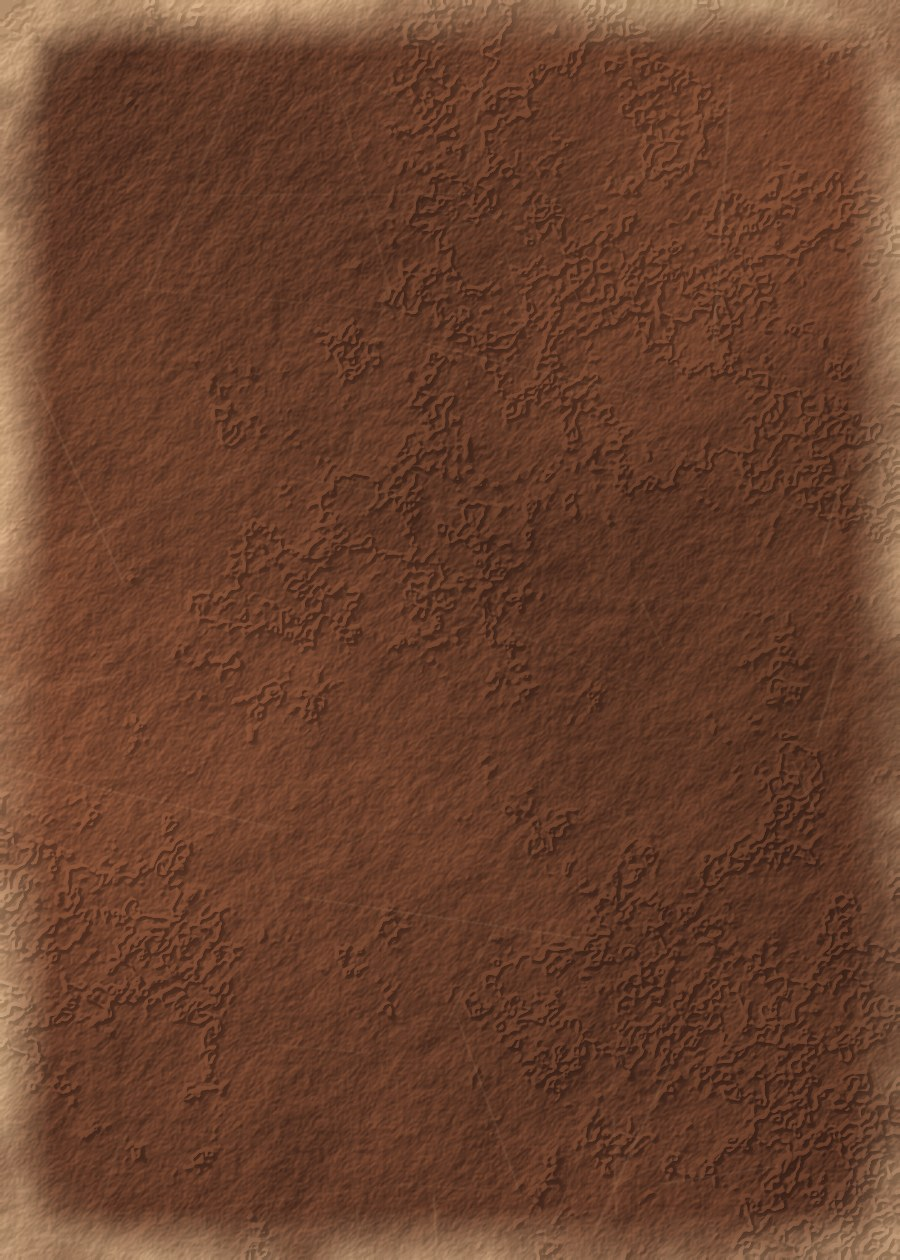
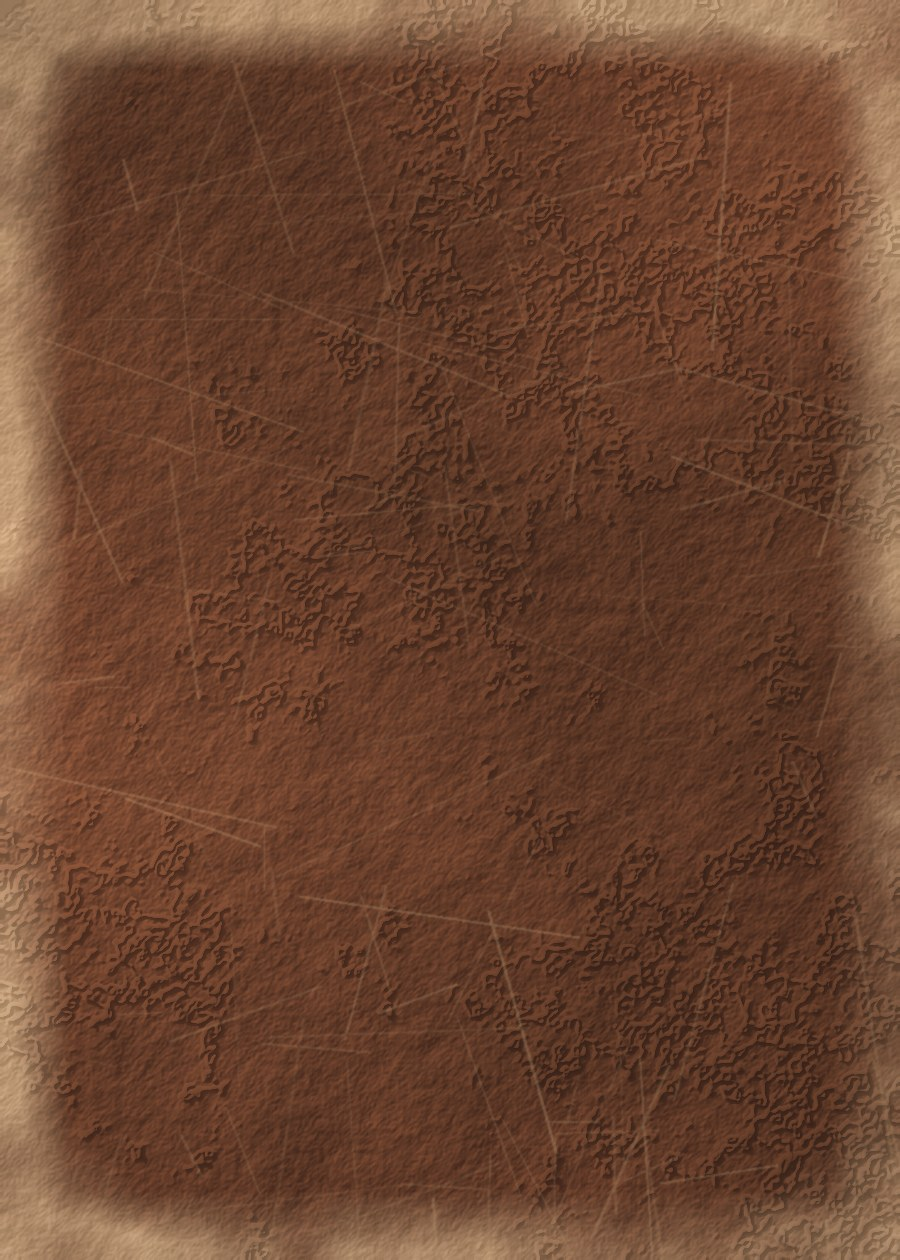
Mist is the choice; batter the cover; make the open book read as a book on phones
- about.html locked to data-dust-kind=mist
- the leather takes a beating: twice the scratches and deeper, wider and
  blotchier rub-through at edges and corners, and grime settled into the low
  points of the grain, which is what separates dirty from merely dark. A new
  cover-dust.png layer sits over everything on the cover including the gilt,
  and the corners show knocked-through board. The tooling and lettering are
  masked harder so the gold is patchier
- on a phone StPageFlip shows one page, which read as a floating leaf. A
  static .libtome-verso panel now sits immediately left of the recto with the
  boards stretched across both, so the verso and left board carry on off the
  screen, and the stage slides right 9% when open so the spine is inside the
  viewport. Portrait only; the landscape spread is untouched

diff --git a/public/assets/css/tome-lib.css b/public/assets/css/tome-lib.css
@@ -35,6 +35,23 @@
   background:#5a3325 url("../tome/leather.jpg") center/cover;
   box-shadow:inset 0 0 46px rgba(30,14,6,.30), inset 0 0 14px rgba(30,14,6,.24);
 }
+/* Settled dust, over everything on the cover including the gilt — dust does
+   not respect the tooling. */
+.libtome .page[data-density="hard"]::before{
+  content:""; position:absolute; inset:0; z-index:5; pointer-events:none;
+  background:url("../tome/cover-dust.png") center/cover;
+  opacity:.5;
+}
+.libtome .page[data-density="hard"]::after{
+  /* knocked corners: the board shows through where it has been dropped */
+  content:""; position:absolute; inset:0; z-index:4; pointer-events:none;
+  background:
+    radial-gradient(circle at 0 0,      rgba(196,158,116,.55) 0, transparent 9%),
+    radial-gradient(circle at 100% 0,   rgba(196,158,116,.42) 0, transparent 7%),
+    radial-gradient(circle at 0 100%,   rgba(196,158,116,.50) 0, transparent 8%),
+    radial-gradient(circle at 100% 100%,rgba(196,158,116,.60) 0, transparent 10%);
+  width:auto;
+}
 .libtome .page .sheet{
   position:absolute; inset:0; display:flex; flex-direction:column;
   padding:clamp(18px,3.2vw,42px) clamp(18px,3.4vw,46px);
@@ -71,4 +88,28 @@
     0 4px 0 -1px #5c3526, 0 7px 0 -2px #34190f, 0 9px 1px -3px rgba(0,0,0,.55),
     0 20px 28px -18px rgba(30,18,10,.8), 0 46px 62px -30px rgba(40,26,14,.5);
   transition:left .5s ease, width .5s ease;
+}
+
+
+/* ---------- portrait: make it read as an open book ----------
+   StPageFlip shows one page in portrait, which on its own looks like a
+   floating leaf. The verso and the boards are drawn continuing off the left
+   of the screen so there is obviously a book there, and the whole thing
+   shifts right once it is open so the spine sits inside the viewport. */
+.libtome-verso{
+  position:absolute; z-index:1; pointer-events:none; display:none;
+  background:#efe4cd url("../tome/page.jpg") center/cover;
+  box-shadow:inset -18px 0 26px -14px rgba(76,52,26,.5);
+  border-radius:5px 1px 1px 5px;
+}
+.libtome-verso::after{
+  content:""; position:absolute; top:0; bottom:0; right:0; width:16%;
+  background:linear-gradient(to left, rgba(76,52,26,.4), transparent);
+}
+.libtome-stage{ transition:transform .55s cubic-bezier(.4,.05,.2,1) }
+
+@media (max-width:820px){
+  .libtome{ max-width:min(73vw, calc((100svh - 300px) * .70)) }
+  .libtome.is-open .libtome-verso{ display:block }
+  .libtome.is-open .libtome-stage{ transform:translateX(9%) }
 }

diff --git a/public/assets/js/tome-lib.js b/public/assets/js/tome-lib.js
@@ -29,6 +29,7 @@
   root.className = 'libtome';
 
   var stage  = document.createElement('div'); stage.className = 'libtome-stage';
+  var verso  = document.createElement('div'); verso.className = 'libtome-verso';
   var boards = document.createElement('div'); boards.className = 'libtome-boards';
   var bookEl = document.createElement('div'); bookEl.className = 'libtome-book';
   var dustEl = document.createElement('div'); dustEl.className = 'libtome-dust'; dustEl.id = 'libtome-dust';
@@ -46,6 +47,7 @@
   });
 
   stage.appendChild(boards);
+  stage.appendChild(verso);
   stage.appendChild(bookEl);
   stage.appendChild(dustEl);
   root.appendChild(stage);
@@ -120,15 +122,31 @@
     var idx = flip.getCurrentPageIndex();
     var n = flip.getPageCount();
     var landscape = flip.getOrientation() === 'landscape';
-    var half = landscape && (idx === 0 || idx >= n - 1);
+    var open = idx > 0 && idx < n - 1;
+    var half = landscape && !open;
 
     var w = half ? b.width / 2 : b.width;
     var x = b.left - s.left + (half && idx === 0 ? b.width / 2 : 0);
+    var top = b.top - s.top - b.height * 0.013;
+    var hgt = b.height * 1.026;
 
-    boards.style.left   = (x - w * 0.016) + 'px';
-    boards.style.top    = (b.top - s.top - b.height * 0.013) + 'px';
-    boards.style.width  = (w * 1.032) + 'px';
-    boards.style.height = (b.height * 1.026) + 'px';
+    root.classList.toggle('is-open', open);
+
+    if (!landscape && open) {
+      // portrait, open: the verso and the left board carry on off the screen
+      verso.style.left   = (x - b.width) + 'px';
+      verso.style.top    = (b.top - s.top) + 'px';
+      verso.style.width  = b.width + 'px';
+      verso.style.height = b.height + 'px';
+
+      boards.style.left  = (x - b.width - w * 0.016) + 'px';
+      boards.style.width = (b.width + w * 1.032) + 'px';
+    } else {
+      boards.style.left  = (x - w * 0.016) + 'px';
+      boards.style.width = (w * 1.032) + 'px';
+    }
+    boards.style.top    = top + 'px';
+    boards.style.height = hgt + 'px';
   }
 
   function status() {

diff --git a/public/assets/css/tome.css b/public/assets/css/tome.css
@@ -295,10 +295,10 @@ html:has(.tome-page){ overflow-x:clip }
    patches, the way gilt does. Two rules, an outer and an inner. */
 .cover-inner::before{
   content:""; position:absolute; inset:0; pointer-events:none;
-  border:1.5px solid rgba(236,200,132,.85); border-radius:2px;
-  box-shadow:inset 0 0 0 5px transparent, inset 0 0 0 6px rgba(236,200,132,.44);
+  border:1.5px solid rgba(226,188,120,.68); border-radius:2px;
+  box-shadow:inset 0 0 0 5px transparent, inset 0 0 0 6px rgba(226,188,120,.28);
   -webkit-mask-image:url("../tome/wear.png"); mask-image:url("../tome/wear.png");
-  -webkit-mask-size:180% 260%; mask-size:180% 260%;
+  -webkit-mask-size:260% 380%; mask-size:260% 380%;
   -webkit-mask-position:34% 46%; mask-position:34% 46%;
 }
 /* the debossed line under the gilt, so the tooling has depth */
@@ -309,7 +309,7 @@ html:has(.tome-page){ overflow-x:clip }
 .cover-mark{
   width:min(78%,320px);
   -webkit-mask-image:url("../tome/wear.png"); mask-image:url("../tome/wear.png");
-  -webkit-mask-size:210% 620%; mask-size:210% 620%;
+  -webkit-mask-size:300% 780%; mask-size:300% 780%;
   -webkit-mask-position:28% 38%; mask-position:28% 38%;
   filter:drop-shadow(0 1px 0 rgba(12,6,3,.7));
 }

diff --git a/public/about.html b/public/about.html
@@ -47,7 +47,7 @@
     <h1>About</h1>
   </div>
 
-  <div class="libtome" data-tome-lib data-dust-kind="both">
+  <div class="libtome" data-tome-lib data-dust-kind="mist">
     <div class="tome-fallback">
 
       <article class="page-src" data-type="cover">

diff --git a/tools/make-tome-textures.py b/tools/make-tome-textures.py
@@ -41,7 +41,7 @@ height = (height - height.min()) / (height.max() - height.min())
 
 # crazing: where the crack field is near a threshold, cut a fine valley
 craze = np.exp(-((crack - .5) ** 2) / (2 * 0.012 ** 2))
-height -= craze * .16
+height -= craze * .22
 
 smooth = np.array(Image.fromarray(np.clip(height * 255, 0, 255).astype(np.uint8))
                   .filter(ImageFilter.GaussianBlur(.7)), np.float32) / 255
@@ -55,12 +55,12 @@ col = deep[None, None, :] + (mid - deep)[None, None, :] * (shade[:, :, None] * .
 
 # --- wear: edges and corners rub first -----------------------------------
 edge_d = np.minimum(np.minimum(nx, 1 - nx) * (W / H), np.minimum(ny, 1 - ny))
-edge_w = np.clip(1 - edge_d / .042, 0, 1) ** 1.05
-corner = np.clip(1 - (np.minimum(nx, 1 - nx) * (W / H) + np.minimum(ny, 1 - ny)) / .13, 0, 1) ** 1.15
+edge_w = np.clip(1 - edge_d / .055, 0, 1) ** 1.0
+corner = np.clip(1 - (np.minimum(nx, 1 - nx) * (W / H) + np.minimum(ny, 1 - ny)) / .17, 0, 1) ** 1.05
 # blotchy, so some of the edge survives and some is worn through
 patch = fbm(W, H, 6, seed=15, persistence=.7)
 patch = np.clip((patch - .40) * 3.4, 0, 1)
-rub = np.clip(edge_w * 1.0 + corner * .95, 0, 1) * (.25 + .95 * patch)
+rub = np.clip(edge_w * 1.15 + corner * 1.15, 0, 1) * (.3 + 1.0 * patch)
 rub = np.clip(rub, 0, 1)
 col = col * (1 - rub[:, :, None] * .92) + worn[None, None, :] * rub[:, :, None] * .92
 col += (rub * shade * 34)[:, :, None]                  # rubbed leather catches light
@@ -68,14 +68,14 @@ col += (rub * shade * 34)[:, :, None]                  # rubbed leather catches 
 # --- scuffs and scratches -------------------------------------------------
 rng = np.random.default_rng(101)
 scr = Image.new('L', (W, H), 0); ds = ImageDraw.Draw(scr)
-for _ in range(70):
+for _ in range(150):
     x0, y0 = rng.uniform(0, W), rng.uniform(0, H)
     ang = rng.uniform(-.5, .5) + (0 if rng.random() < .5 else 1.5708)
     ln = rng.uniform(30, 300)
     ds.line([x0, y0, x0 + math.cos(ang) * ln, y0 + math.sin(ang) * ln],
-            fill=int(rng.uniform(50, 150)), width=int(rng.uniform(1, 3)))
+            fill=int(rng.uniform(60, 190)), width=int(rng.uniform(1, 4)))
 scr = np.array(scr.filter(ImageFilter.GaussianBlur(.9)), np.float32) / 255
-col = col * (1 - scr[:, :, None] * .55) + worn[None, None, :] * scr[:, :, None] * .55
+col = col * (1 - scr[:, :, None] * .62) + worn[None, None, :] * scr[:, :, None] * .62
 
 # --- staining -------------------------------------------------------------
 stain = fbm(W, H, 4, seed=16, persistence=.6)
@@ -87,6 +87,12 @@ hold = np.exp(-(((nx - .55) / .40) ** 2 + ((ny - .5) / .46) ** 2))
 col *= (1 - hold[:, :, None] * .07)
 
 col *= np.clip(1 - (np.sqrt(((xx - W / 2) / (W * 1.05)) ** 2 + ((yy - H / 2) / (H * 1.08)) ** 2) ** 3.6) * .10, .86, 1)[:, :, None]
+# grime sits in the low points of the grain — that is what makes a battered
+# book look dirty rather than merely dark
+grime = np.clip(1 - smooth, 0, 1) ** 2.2
+grime *= .35 + .85 * fbm(W, H, 5, seed=18)
+col = col * (1 - grime[:, :, None] * .34) + np.array([58, 44, 30], np.float32)[None, None, :] * grime[:, :, None] * .34
+
 bleach = fbm(W, H, 4, seed=17, persistence=.62)
 col = col * (0.86 + 0.30 * bleach[:, :, None])          # unevenly faded by light
 Image.fromarray(np.clip(col, 0, 255).astype(np.uint8)).save('public/assets/tome/leather.jpg', quality=88, optimize=True)
@@ -124,3 +130,28 @@ r = np.sqrt(((xx2 - W / 2) / (W * .70)) ** 2 + ((yy2 - H / 2) / (H * .74)) ** 2)
 page *= np.clip(1 - (r ** 3.2) * .30, .62, 1)[:, :, None]
 Image.fromarray(np.clip(page, 0, 255).astype(np.uint8)).save('public/assets/tome/page.jpg', quality=88, optimize=True)
 print('page')
+
+
+# ------------------------------------------------- settled dust on the cover
+W3, H3 = 700, 980
+film = fbm(W3, H3, 6, seed=41, persistence=.6)
+fine = fbm(W3, H3, 9, seed=42, persistence=.82)
+yy3, xx3 = np.mgrid[0:H3, 0:W3]
+nx3, ny3 = xx3 / W3, yy3 / H3
+
+# dust gathers at the edges and along the top, and in a few settled patches
+edge = np.clip(1 - np.minimum(np.minimum(nx3, 1 - nx3) * (W3 / H3), np.minimum(ny3, 1 - ny3)) / .16, 0, 1) ** 1.4
+top = np.clip(1 - ny3 / .45, 0, 1) ** 1.6
+patches = np.clip((fbm(W3, H3, 3, seed=43) - .45) * 3.2, 0, 1)
+
+a = (0.30 * edge + 0.16 * top + 0.34 * patches + 0.22 * film) * (0.45 + 0.75 * fine)
+a = np.clip(a, 0, 1) ** 1.25 * 0.62
+
+rng3 = np.random.default_rng(44)
+speck = (rng3.random((H3, W3)) > 0.9975).astype(np.float32)
+speck = np.array(Image.fromarray((speck * 255).astype(np.uint8)).filter(ImageFilter.GaussianBlur(0.7)), np.float32) / 255
+a = np.clip(a + speck * 0.5, 0, 1)
+
+tint = np.dstack([np.full((H3, W3), 214.), np.full((H3, W3), 202.), np.full((H3, W3), 178.)])
+Image.fromarray(np.dstack([tint, a * 255]).astype(np.uint8), 'RGBA').save('public/assets/tome/cover-dust.png', optimize=True)
+print('cover dust')

diff --git a/CLAUDE.md b/CLAUDE.md
@@ -175,6 +175,15 @@ never runs — no JS, or `prefers-reduced-motion` — the articles stay put and
 you read a perfectly ordinary document. Add or reorder a page by editing the
 articles; nothing else needs to change.
 
+On a phone StPageFlip switches to a single page, which on its own reads as a
+floating leaf rather than an open book. `.libtome-verso` is a static page-
+textured panel positioned immediately left of the recto, and the boards are
+stretched to span both — so the verso and the left board obviously carry on off
+the left of the screen. The stage also slides right by 9% once the book is
+open, so the spine sits inside the viewport rather than at its edge. All of it
+is portrait-only; the landscape spread is untouched and the verso is
+`display:none` there.
+
 Two things learned wiring StPageFlip up:
 
 - It renders a **closed** book as a single page inside a full-width block, so
@@ -195,7 +204,8 @@ Two things learned wiring StPageFlip up:
 BookDust.attach(bookEl, hostEl, flip, { kind: 'cloud' })
 ```
 
-`about.html` picks one with `data-dust-kind` on the container.
+`about.html` picks one with `data-dust-kind` on the container — currently
+`mist`, which is the chosen one.
 `dust-lab.html` runs all four side by side with a density slider, so they can
 be compared directly.
 
